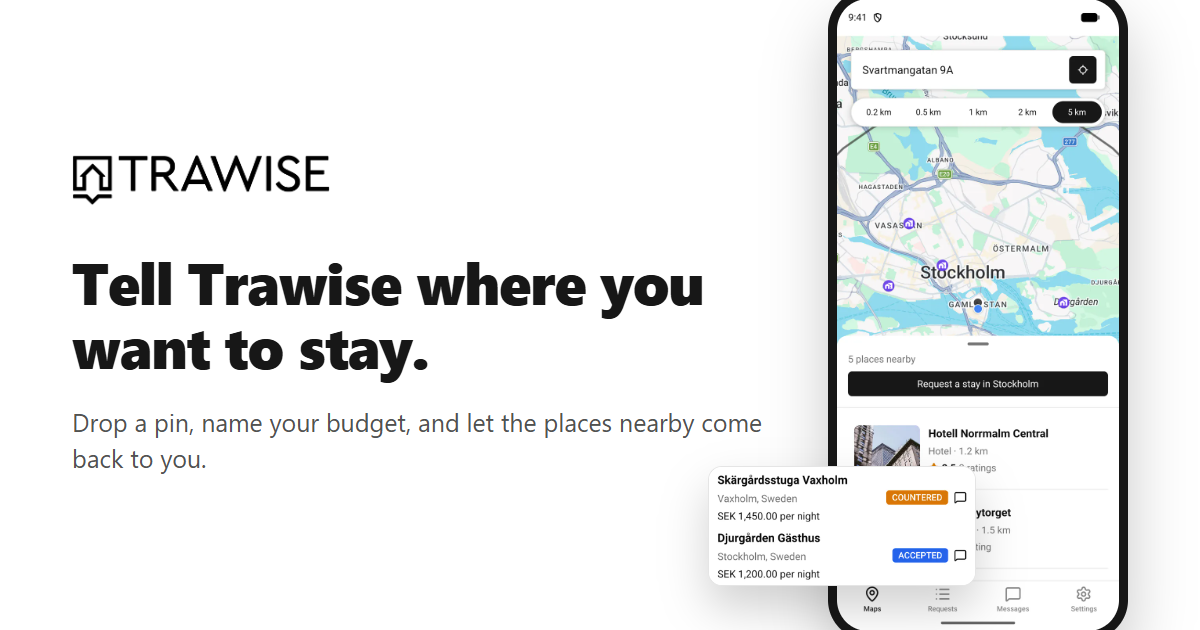
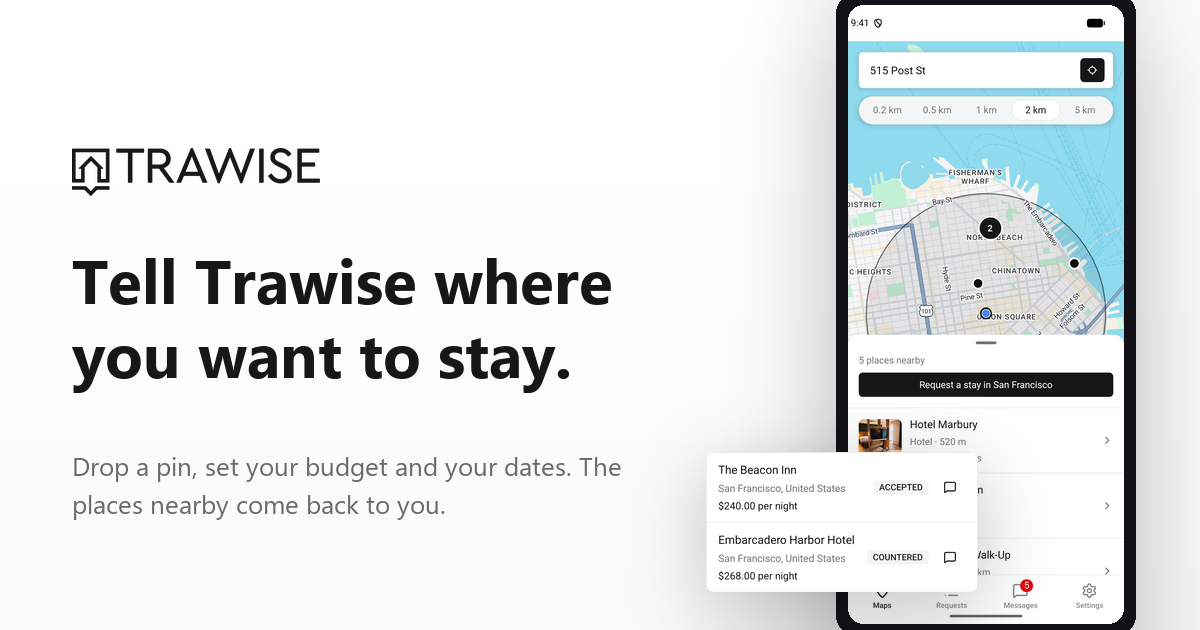
Add social links and fix the sharing card and sitemap (#9)
* Add LinkedIn and Instagram links to the footer

* Stop claiming translations of the English-only pages

* Rebuild the sharing card from the San Francisco demo set

diff --git a/src/src/components/social-links.tsx b/src/src/components/social-links.tsx
@@ -1,0 +1,46 @@
+import { useTranslation } from "react-i18next";
+
+import { SITE_CONFIG, SOCIAL_LINKS } from "../lib/constants";
+
+// Brand marks are drawn inline rather than loaded as images: two paths cost
+// less than two network requests, and they inherit the link's colour on hover.
+const ICON_PATHS: Record<(typeof SOCIAL_LINKS)[number]["network"], string> = {
+  LinkedIn:
+    "M20.447 20.452h-3.554v-5.569c0-1.328-.027-3.037-1.852-3.037-1.853 0-2.136 1.445-2.136 2.939v5.667H9.351V9h3.414v1.561h.046c.477-.9 1.637-1.85 3.37-1.85 3.601 0 4.267 2.37 4.267 5.455v6.286zM5.337 7.433c-1.144 0-2.063-.926-2.063-2.065 0-1.138.92-2.063 2.063-2.063 1.14 0 2.064.925 2.064 2.063 0 1.139-.925 2.065-2.064 2.065zm1.782 13.019H3.555V9h3.564v11.452zM22.225 0H1.771C.792 0 0 .774 0 1.729v20.542C0 23.227.792 24 1.771 24h20.451C23.2 24 24 23.227 24 22.271V1.729C24 .774 23.2 0 22.225 0z",
+  Instagram:
+    "M12 0C8.74 0 8.333.015 7.053.072 5.775.132 4.905.333 4.14.63c-.789.306-1.459.717-2.126 1.384S.935 3.35.63 4.14C.333 4.905.131 5.775.072 7.053.012 8.333 0 8.74 0 12s.015 3.667.072 4.947c.06 1.277.261 2.148.558 2.913.306.788.717 1.459 1.384 2.126.667.666 1.336 1.079 2.126 1.384.766.296 1.636.499 2.913.558C8.333 23.988 8.74 24 12 24s3.667-.015 4.947-.072c1.277-.06 2.148-.262 2.913-.558.788-.306 1.459-.718 2.126-1.384.666-.667 1.079-1.335 1.384-2.126.296-.765.499-1.636.558-2.913.06-1.28.072-1.687.072-4.947s-.015-3.667-.072-4.947c-.06-1.277-.262-2.149-.558-2.913-.306-.789-.718-1.459-1.384-2.126C21.319 1.347 20.651.935 19.86.63c-.765-.297-1.636-.499-2.913-.558C15.667.012 15.26 0 12 0zm0 2.16c3.203 0 3.585.016 4.85.071 1.17.055 1.805.249 2.227.415.562.217.96.477 1.382.896.419.42.679.819.896 1.381.164.422.36 1.057.413 2.227.057 1.266.07 1.646.07 4.85s-.015 3.585-.074 4.85c-.061 1.17-.256 1.805-.421 2.227-.224.562-.479.96-.899 1.382-.419.419-.824.679-1.38.896-.42.164-1.065.36-2.235.413-1.274.057-1.649.07-4.859.07-3.211 0-3.586-.015-4.859-.074-1.171-.061-1.816-.256-2.236-.421-.569-.224-.96-.479-1.379-.899-.421-.419-.69-.824-.9-1.38-.165-.42-.359-1.065-.42-2.235-.045-1.26-.061-1.649-.061-4.844 0-3.196.016-3.586.061-4.861.061-1.17.255-1.814.42-2.234.21-.57.479-.96.9-1.381.419-.419.81-.689 1.379-.898.42-.166 1.051-.361 2.221-.421 1.275-.045 1.65-.06 4.859-.06l.045.03zm0 3.678a6.162 6.162 0 100 12.324 6.162 6.162 0 000-12.324zM12 16c-2.21 0-4-1.79-4-4s1.79-4 4-4 4 1.79 4 4-1.79 4-4 4zm7.846-10.405a1.441 1.441 0 01-2.88 0 1.44 1.44 0 012.88 0z",
+};
+
+export function SocialLinks() {
+  const { t } = useTranslation();
+
+  return (
+    <ul className="flex items-center gap-1 -ml-2 list-none">
+      {SOCIAL_LINKS.map(({ network, url }) => (
+        <li key={network}>
+          {/* The icon carries no text, so the accessible name has to come from
+            the label, and p-2 lifts the 20px mark to a 36px target. */}
+          <a
+            href={url}
+            target="_blank"
+            rel="noopener noreferrer"
+            aria-label={`${t("footer.socialLink", {
+              name: SITE_CONFIG.name,
+              network,
+            })} (${t("opensInNewTab")})`}
+            className="flex p-2 text-gray-600 hover:text-gray-900 transition-colors focus:outline-none focus:ring-2 focus:ring-offset-2 focus:ring-brand-600 rounded"
+          >
+            <svg
+              viewBox="0 0 24 24"
+              className="h-5 w-5 fill-current"
+              aria-hidden="true"
+              focusable="false"
+            >
+              <path d={ICON_PATHS[network]} />
+            </svg>
+          </a>
+        </li>
+      ))}
+    </ul>
+  );
+}

diff --git a/src/src/hooks/use-page-meta.ts b/src/src/hooks/use-page-meta.ts
@@ -24,6 +24,13 @@ interface PageMeta {
   path: string;
   /** Keep the route out of search results (utility and error pages). */
   noindex?: boolean;
+  /**
+   * False for routes whose body is English at every locale — the FAQ and the
+   * legal pages. They canonicalise to the English URL and emit no hreflang,
+   * because alternates that serve the same English text are alternates Google
+   * discards, taking the rest of the annotation with them.
+   */
+  localised?: boolean;
 }
 
 /**
@@ -68,6 +75,7 @@ export function usePageMeta({
   description,
   path,
   noindex = false,
+  localised = true,
 }: PageMeta): void {
   const { pathname } = useLocation();
 
@@ -91,10 +99,13 @@ export function usePageMeta({
   // same, and these tags all have to move with it.
   useEffect(() => {
     const locale = localeFromPath(pathname);
-    const canonical = new URL(localePath(locale, path), SITE_CONFIG.url).href;
+    const canonical = new URL(
+      localePath(localised ? locale : DEFAULT_LOCALE, path),
+      SITE_CONFIG.url,
+    ).href;
 
     setMeta("property", "og:url", canonical);
-    setMeta("property", "og:locale", locale);
+    setMeta("property", "og:locale", localised ? locale : DEFAULT_LOCALE);
 
     let link = document.querySelector<HTMLLinkElement>('link[rel="canonical"]');
 
@@ -114,6 +125,12 @@ export function usePageMeta({
       )
       .forEach((previous) => previous.remove());
 
+    // Removal happens first regardless, so arriving from a localised route does
+    // not leave that route's alternates behind on an English-only page.
+    if (!localised) {
+      return;
+    }
+
     const alternates = [
       ...LOCALES.map((alternate) => ({ hreflang: alternate, locale: alternate })),
       { hreflang: "x-default", locale: DEFAULT_LOCALE },
@@ -131,7 +148,7 @@ export function usePageMeta({
       alternateLink.dataset.pageMeta = "true";
       document.head.appendChild(alternateLink);
     });
-  }, [path, pathname]);
+  }, [path, pathname, localised]);
 
   useEffect(() => {
     let meta = document.querySelector<HTMLMetaElement>('meta[name="robots"]');

diff --git a/src/index.html b/src/index.html
@@ -39,7 +39,7 @@
   <meta property="og:image" content="https://trawise.org/og-image.png" />
   <meta property="og:image:width" content="1200" />
   <meta property="og:image:height" content="630" />
-  <meta property="og:image:alt" content="The Trawise app showing places near a pin dropped on Stockholm, and two hosts replying with a nightly price" />
+  <meta property="og:image:alt" content="The Trawise app showing places near a pin dropped on San Francisco, with one host accepting at $240 a night and another countering at $268" />
   <meta property="og:locale" content="en" />
   <meta property="og:locale:alternate" content="es" />
   <meta property="og:locale:alternate" content="it" />
@@ -52,7 +52,7 @@
     content="Set your location and budget on a map, post an accommodation request, and get offers from nearby hosts and hotels." />
   <meta name="twitter:image" content="https://trawise.org/og-image.png" />
   <meta name="twitter:image:alt"
-    content="The Trawise app showing places near a pin dropped on Stockholm, and two hosts replying with a nightly price" />
+    content="The Trawise app showing places near a pin dropped on San Francisco, with one host accepting at $240 a night and another countering at $268" />
 
   <!-- Structured data.  Deliberately omits `offers` and `aggregateRating` on
        the SoftwareApplication: those must reflect real store listings, and
@@ -68,6 +68,10 @@
           "url": "https://trawise.org/",
           "logo": "https://trawise.org/full-logo.png",
           "email": "support@trawise.org",
+          "sameAs": [
+            "https://www.linkedin.com/company/trawise",
+            "https://www.instagram.com/tra.wise"
+          ],
           "address": {
             "@type": "PostalAddress",
             "addressLocality": "Stockholm",

diff --git a/src/src/components/footer.tsx b/src/src/components/footer.tsx
@@ -6,6 +6,7 @@ import { HOST_APP_URL, SITE_CONFIG } from "../lib/constants";
 import { useCookieConsent } from "../hooks/use-cookie-consent";
 import { CONTENT_WIDTH, Container } from "./ui";
 import { LanguageSwitcher } from "./language-switcher";
+import { SocialLinks } from "./social-links";
 
 // Shared by the footer links and the cookie-settings button so they stay
 // visually identical — the button must not read as a different kind of control.
@@ -56,6 +57,7 @@ export function Footer() {
               <p className="text-gray-600 max-w-sm">
                 {t("footer.description")}.
               </p>
+              <SocialLinks />
             </div>
 
             {/* One "Trawise" column rather than a travellers one and a hosts one:

diff --git a/src/src/lib/constants.ts b/src/src/lib/constants.ts
@@ -9,3 +9,8 @@ export const SITE_CONFIG = {
 } as const;
 
 export const HOST_APP_URL = "https://host.trawise.org/";
+
+export const SOCIAL_LINKS = [
+  { network: "LinkedIn", url: "https://www.linkedin.com/company/trawise" },
+  { network: "Instagram", url: "https://www.instagram.com/tra.wise" },
+] as const;

diff --git a/src/src/Faq.tsx b/src/src/Faq.tsx
@@ -222,6 +222,7 @@ export function Faq() {
     title: t("pageTitles.faq"),
     description: t("faq.subtitle"),
     path: "/faq",
+    localised: false,
   });
 
   // A FAQPage graph is what puts these answers in a search result rather than

diff --git a/src/src/PrivacyPolicy.tsx b/src/src/PrivacyPolicy.tsx
@@ -20,6 +20,7 @@ export function PrivacyPolicy() {
     title: t("pageTitles.privacyPolicy"),
     description: t("pageDescriptions.privacyPolicy"),
     path: "/privacy-policy",
+    localised: false,
   });
 
   return (

diff --git a/src/src/TermsOfService.tsx b/src/src/TermsOfService.tsx
@@ -18,6 +18,7 @@ export function TermsOfService() {
     title: t("pageTitles.termsOfService"),
     description: t("pageDescriptions.termsOfService"),
     path: "/terms",
+    localised: false,
   });
 
   return (
